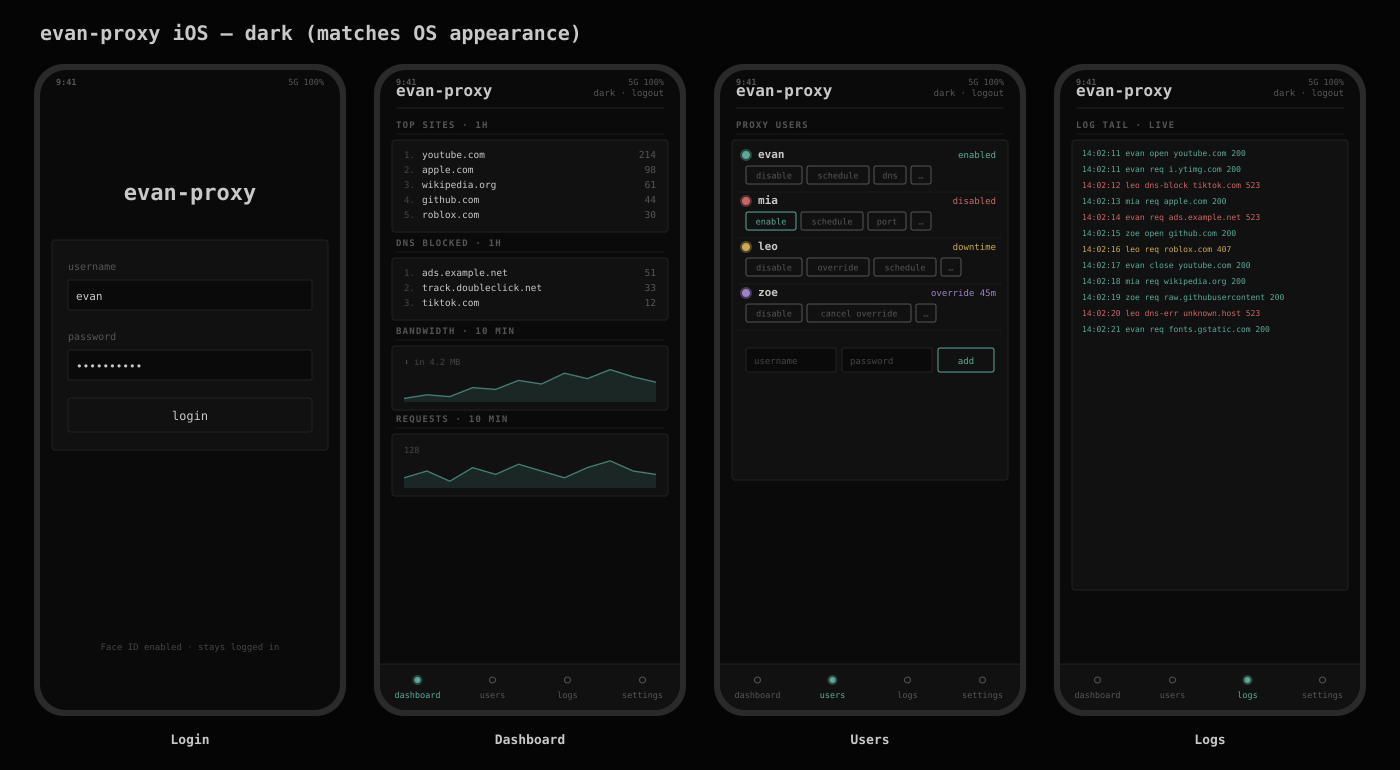
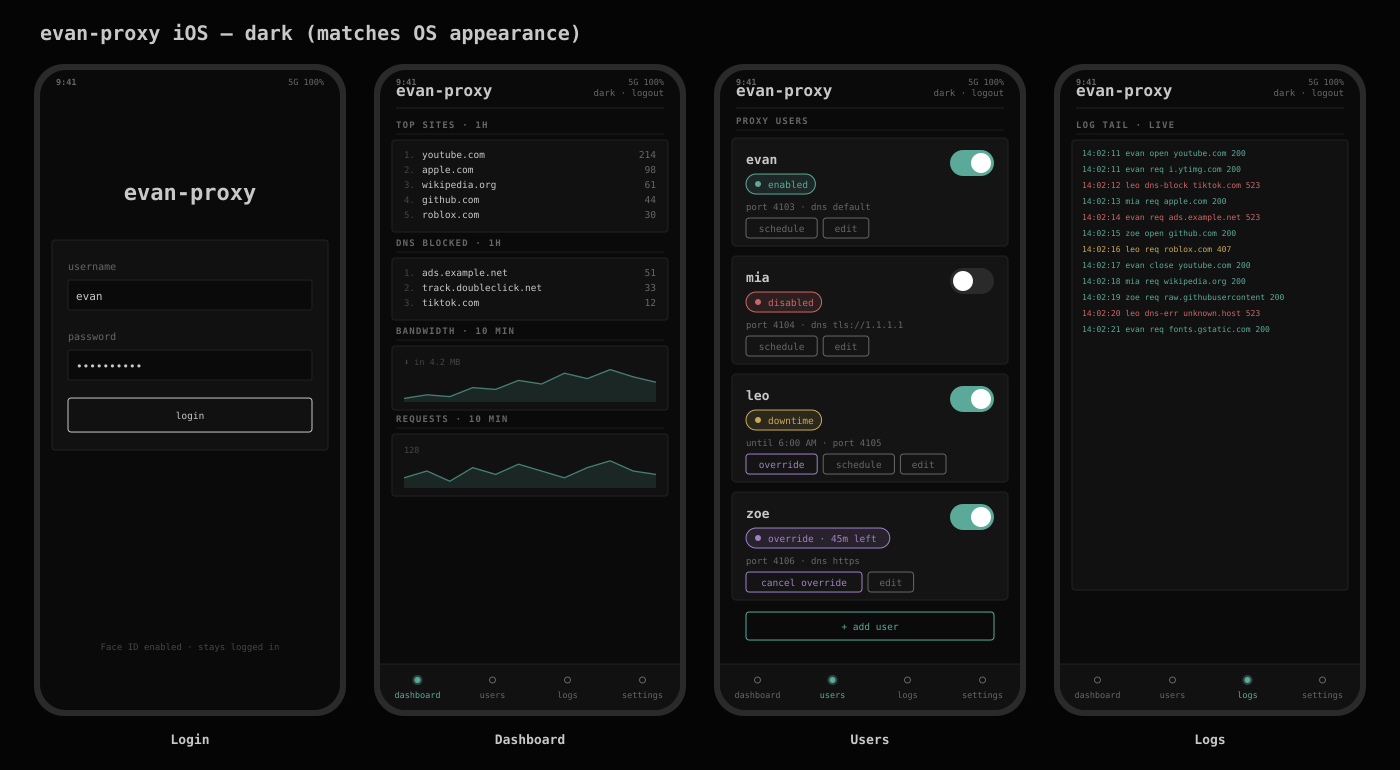
Refine Users screen and add schedule editor mockups
Redesign the Users screen as cards with a native toggle and a single
status chip (no overflow menu); move setup actions into a user detail
screen; add the schedule editor with a wheel time picker.

diff --git a/docs/superpowers/specs/2026-07-30-ios-app-design.md b/docs/superpowers/specs/2026-07-30-ios-app-design.md
@@ -46,9 +46,9 @@ Small, independently testable units:
   with a single retry; explicit logout clears the Keychain; optional biometric gate.
 - **`LogStream`** — SSE reader over `URLSession.bytes`, exposed as an
   `AsyncSequence<LogEntry>`; caps at ~200 lines like the web tail.
-- **Feature views** — `DashboardView`, `UsersView` (+ per-user edit sheets:
-  schedule, port, DNS w/ test, password, override, add/delete), `LogsView`,
-  `SettingsView`. Each backed by an `@Observable` view model calling `APIClient`.
+- **Feature views** — `DashboardView`, `UsersView`, `UserDetailView`,
+  `ScheduleEditorView`, `LogsView`, `SettingsView`. Each backed by an
+  `@Observable` view model calling `APIClient`.
 - **`Theme`** — colors, font, and shared components.
 
 ## Persistent-login flow
@@ -75,6 +75,26 @@ This delivers "log in once, stays logged in" against the current session model
   glow** (enabled/disabled/downtime/override), pill buttons, danger/save variants.
 - **Graphs:** bandwidth + requests via **Swift Charts** (translucent area + line)
   reading `/api/stats/traffic`.
+
+## Users screen layout
+
+Each user is a **card** (not a cramped table row):
+
+- Name + a native iOS **Toggle** (the enable/disable master switch — the one-tap
+  daily driver).
+- A single **status chip** — one tinted pill with a leading dot and text
+  (`enabled` / `disabled` / `downtime` / `override · 45m left`), instead of a
+  separate dot-with-glow plus floating label.
+- A muted meta line (`port · dns`, or `until 6:00 AM` in downtime).
+- Contextual action buttons: `override` / `cancel override` when relevant,
+  `schedule`, and `edit`. **No overflow (`…`) button.**
+
+Rare/setup actions live in a **`UserDetailView`** opened via `edit`: an `access`
+group (enabled toggle) and a `configuration` group (schedule, port, DNS,
+password) plus `delete user`. The **schedule editor** is a per-day list with a
+native wheel time picker presented as a bottom sheet; overnight windows are
+labeled as such. This removes the inline-pill clutter and the overflow menu
+entirely. See `docs/mockups/ios-mockups-users.svg`.
 
 ## Stack
 
